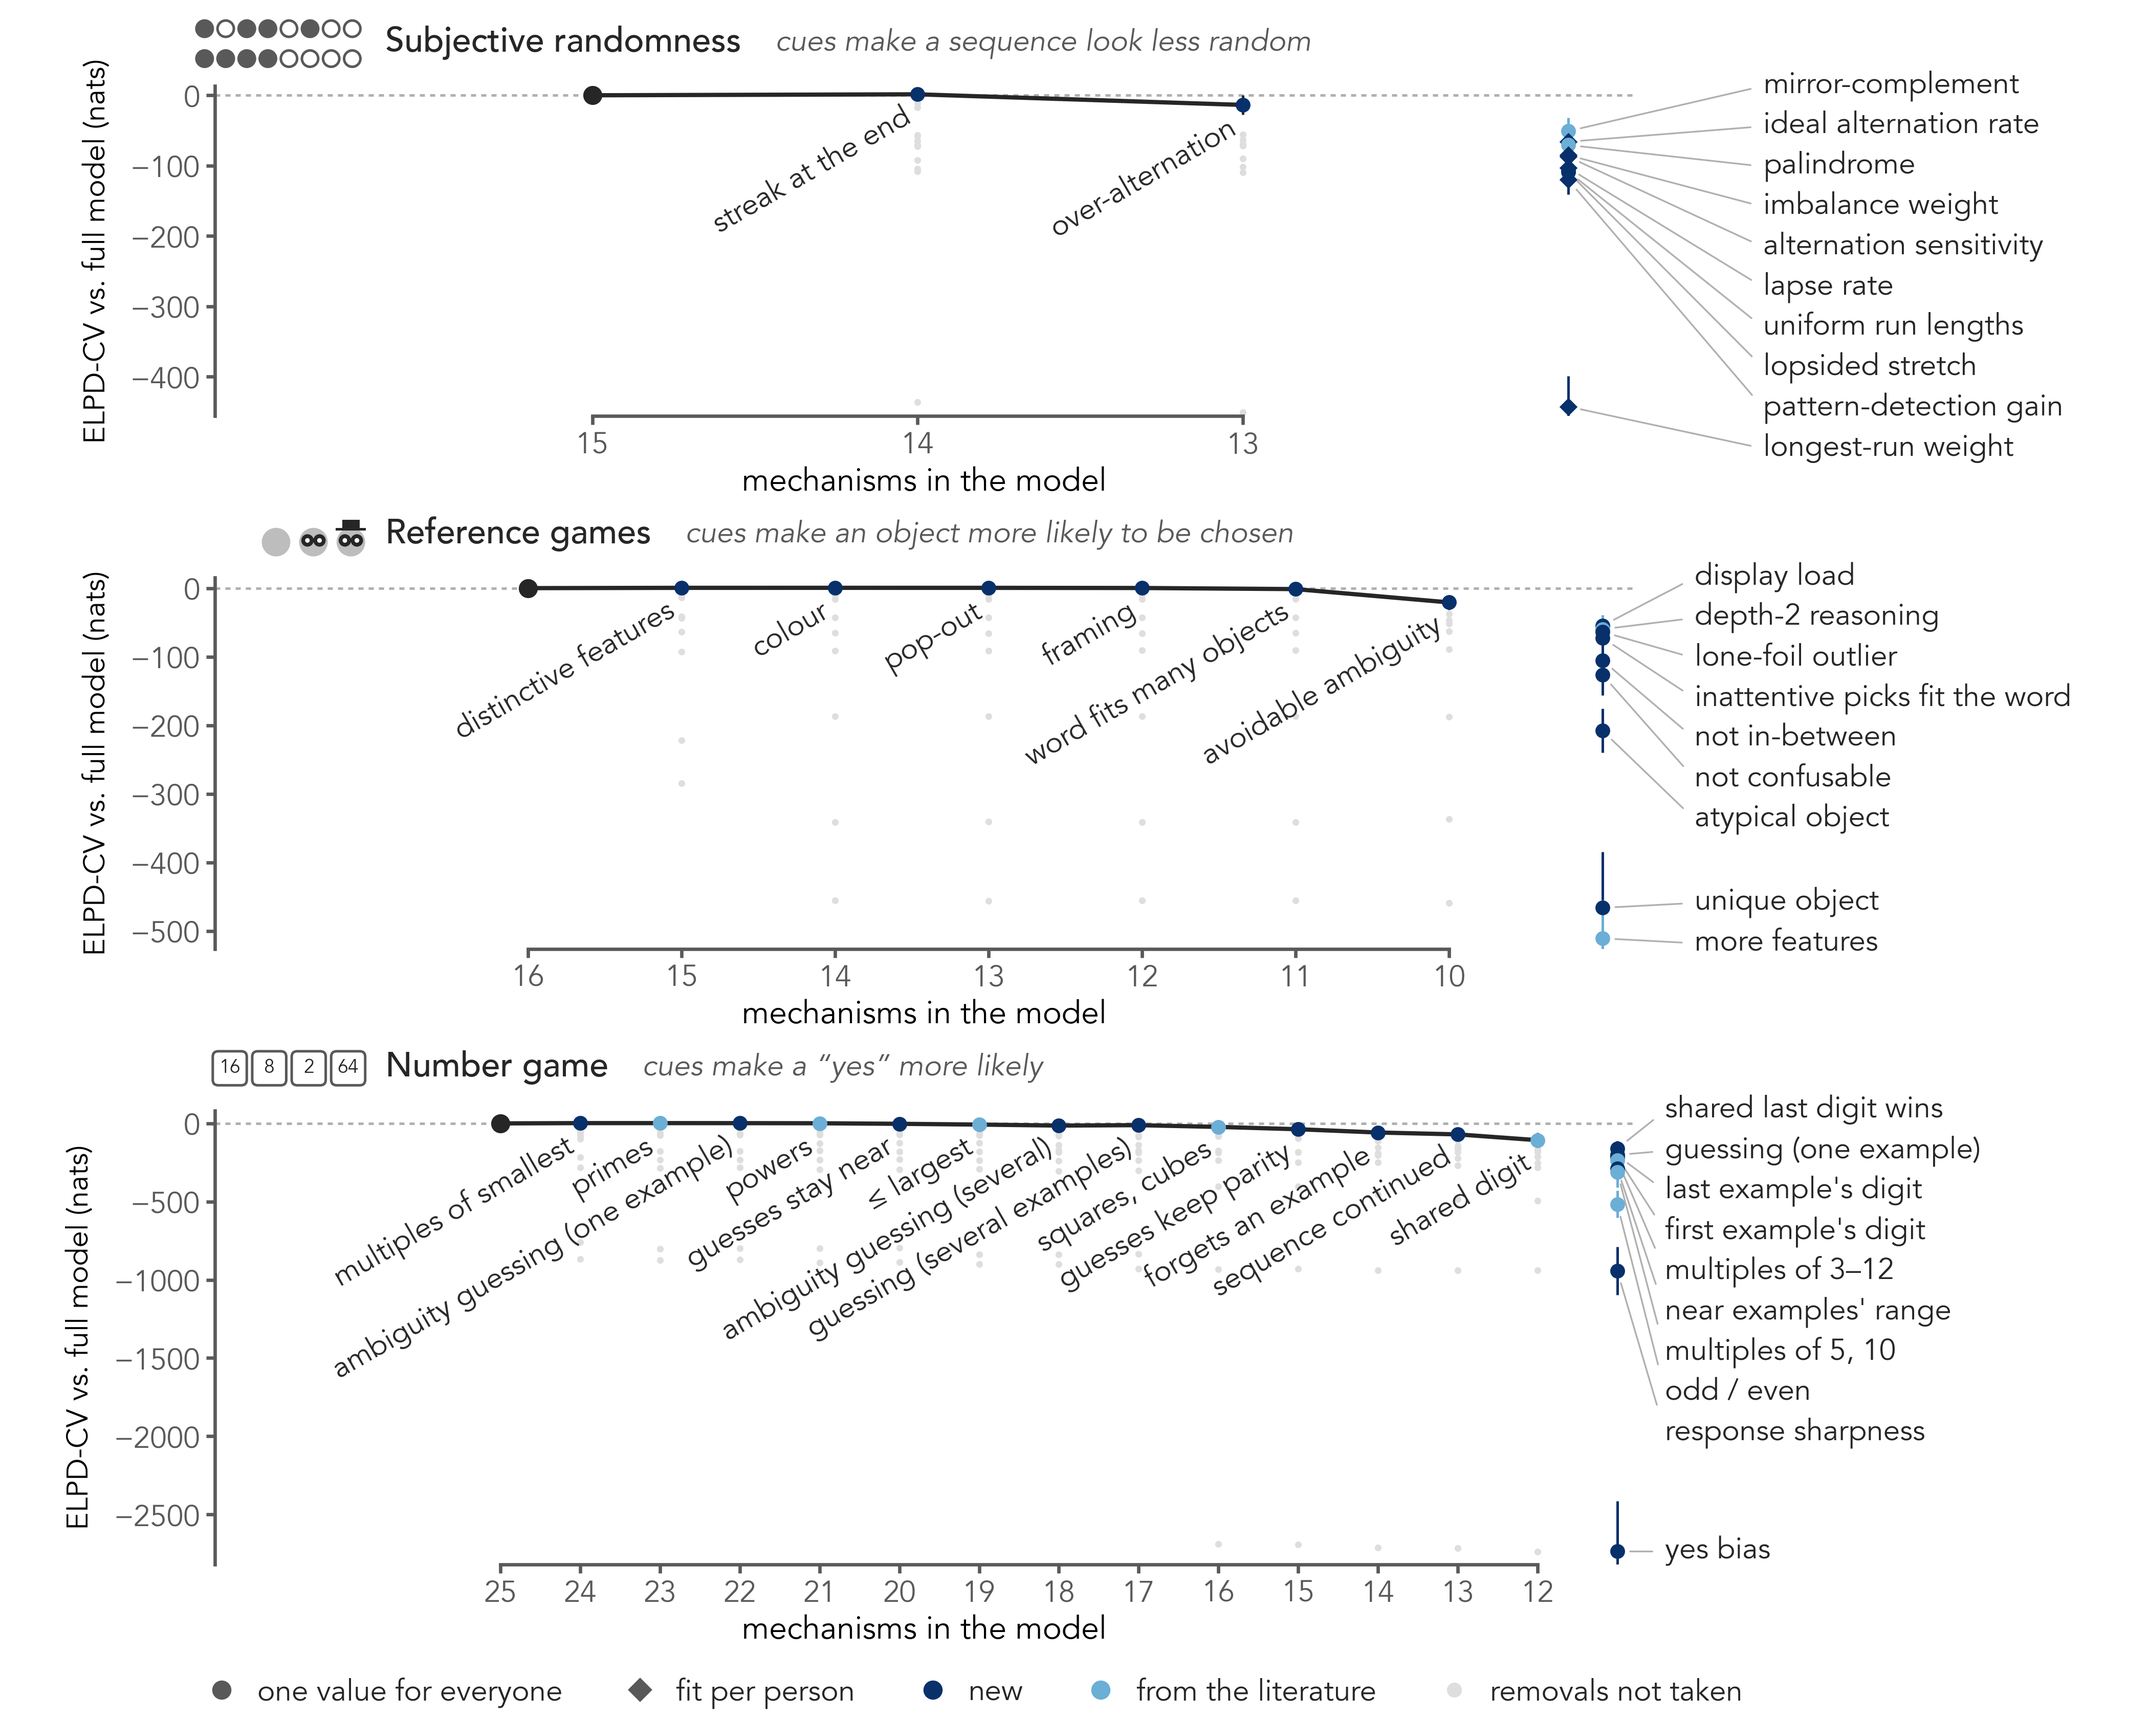
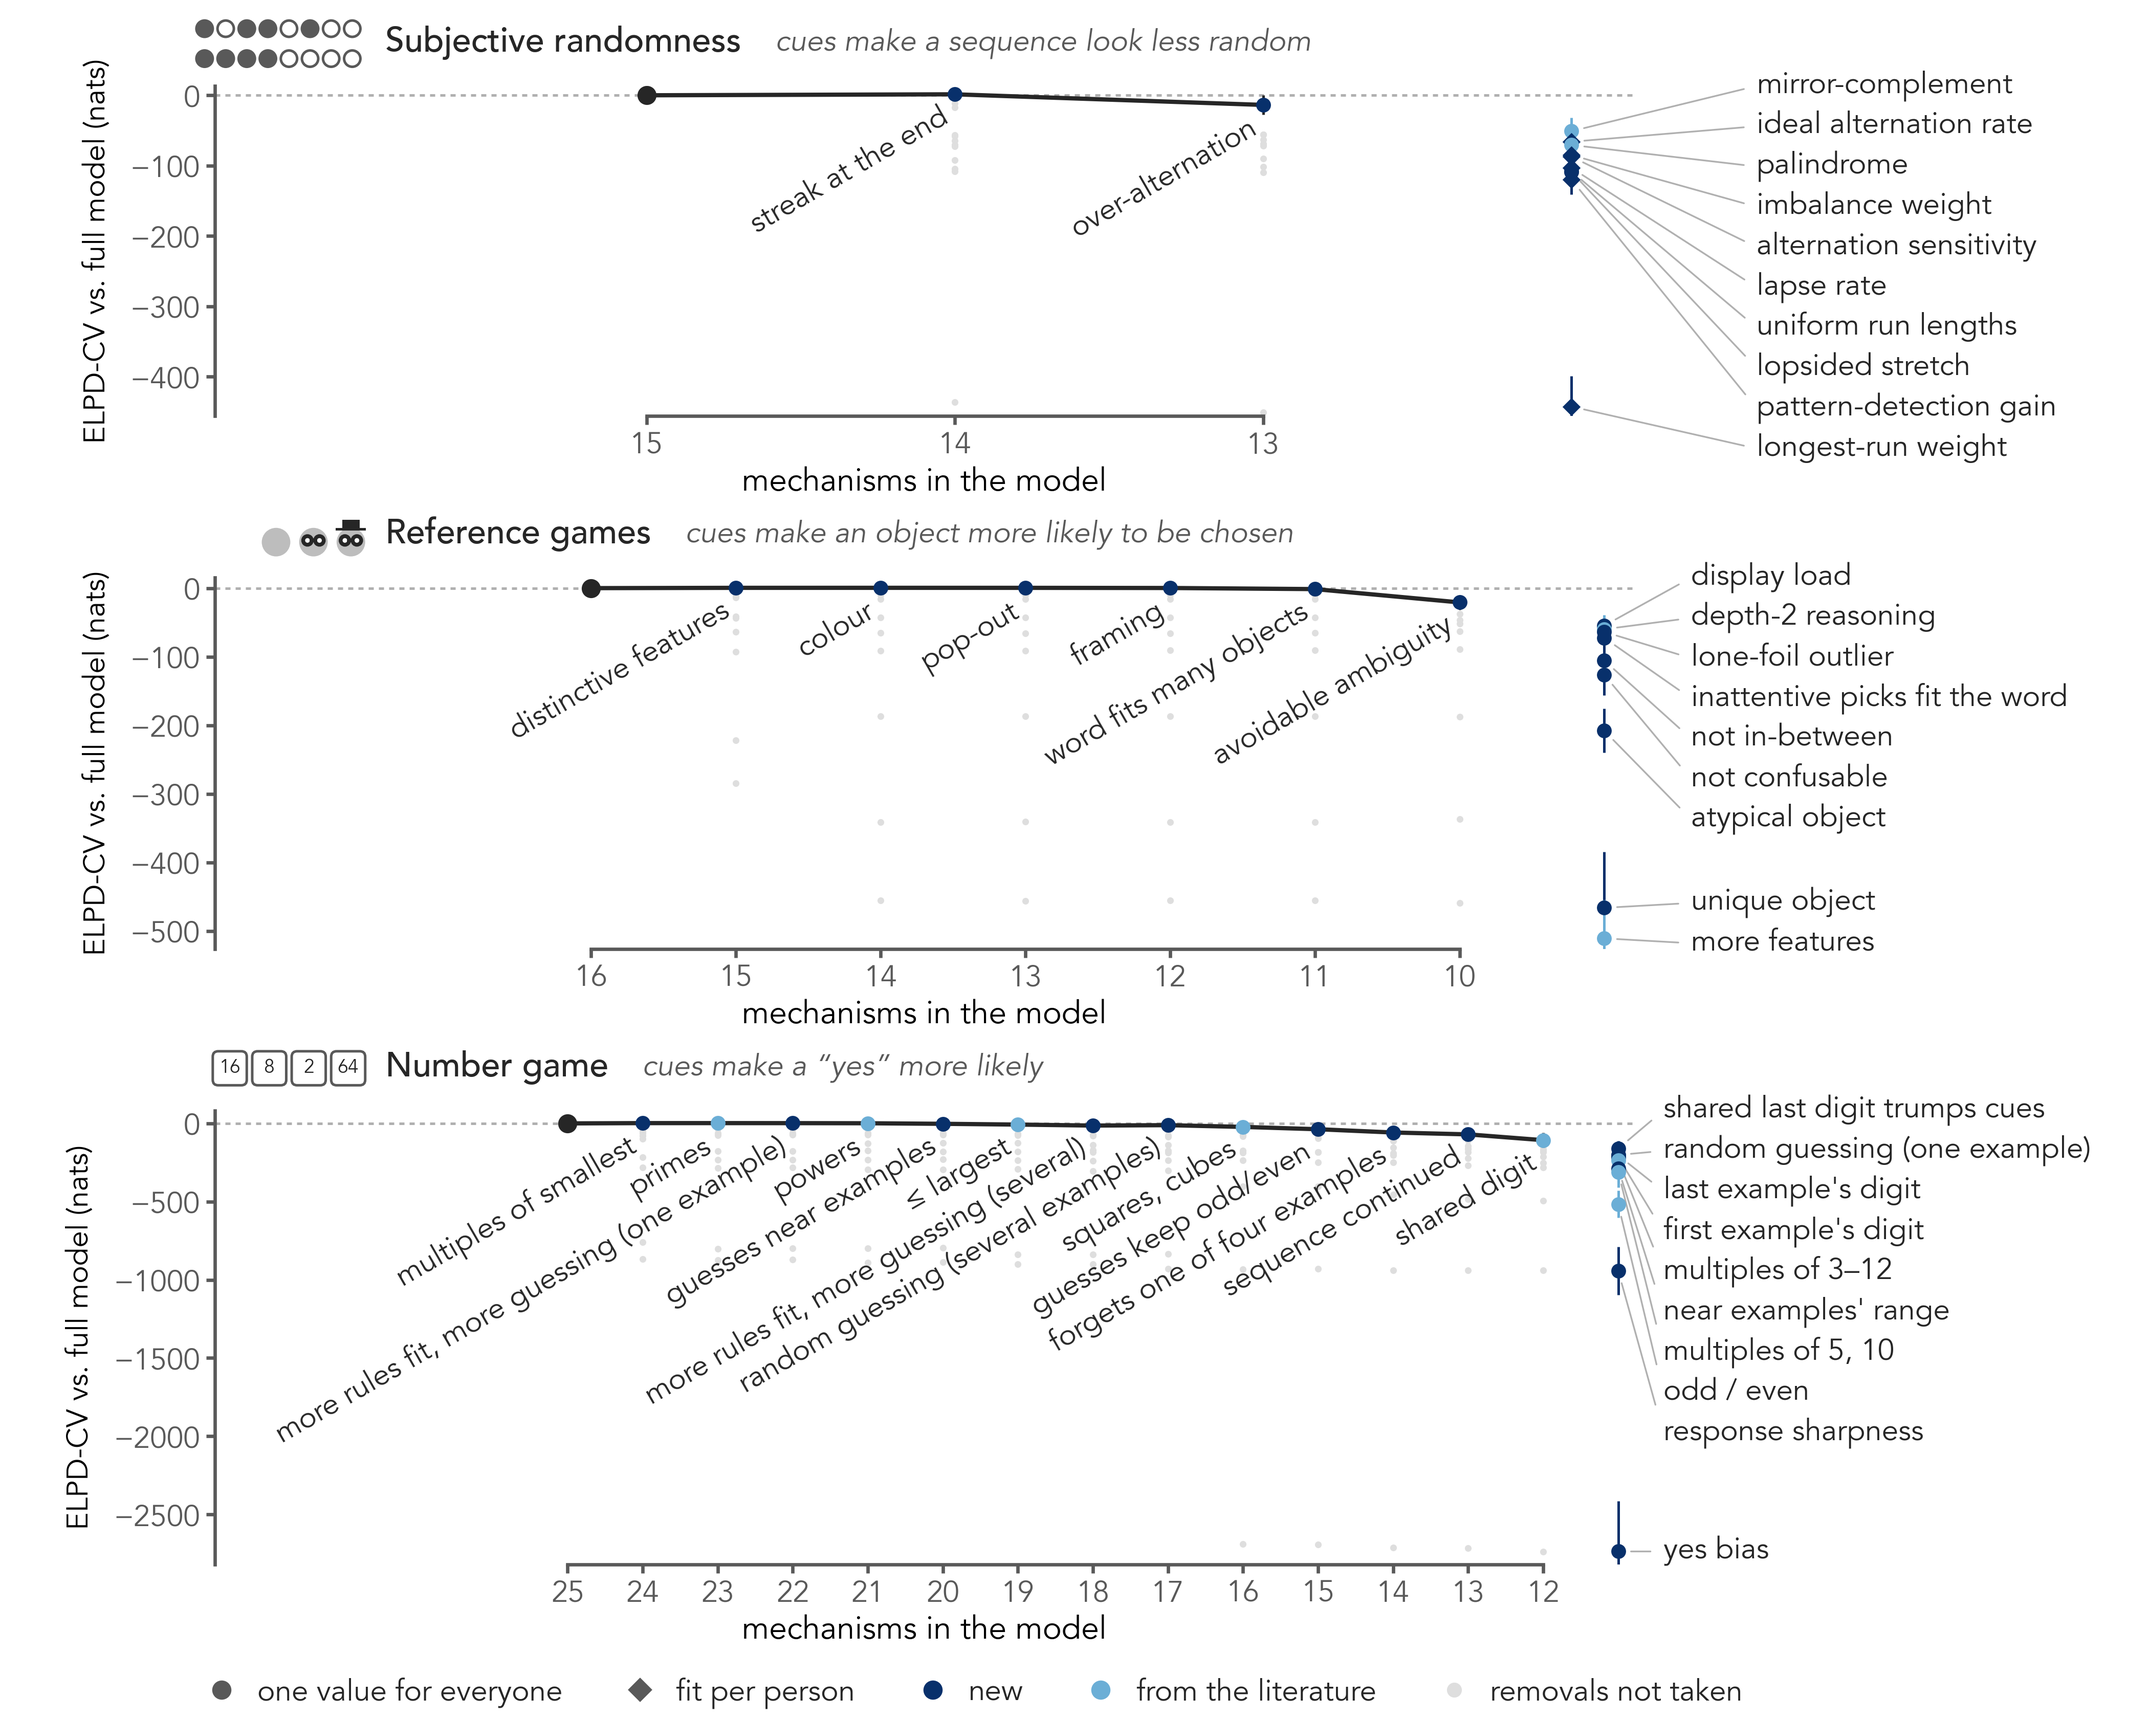
Figure 4 draft: number-game guessing and memory names that say what they do

diff --git a/data/paper/work/fig4_draft/fig4_draft.py b/data/paper/work/fig4_draft/fig4_draft.py
@@ -97,7 +97,7 @@ def draw(ax, elimination, names):
         labels.append((yo, name, color, yo))
     # the options' names in a column right of them, spread apart, a leader to each
     ax.set_ylim(lo - 0.03 * abs(lo), 0.03 * abs(lo))
-    ax.set_xlim(n[0] + 0.5 + 0.22 * (n[0] - xo), xo - 0.2)  # room left for the first step's name
+    ax.set_xlim(n[0] + 0.5 + 0.3 * (n[0] - xo), xo - 0.2)  # room left for the first step's name
     fig = ax.figure
     fig.canvas.draw()
     to_data = ax.transData.inverted()
